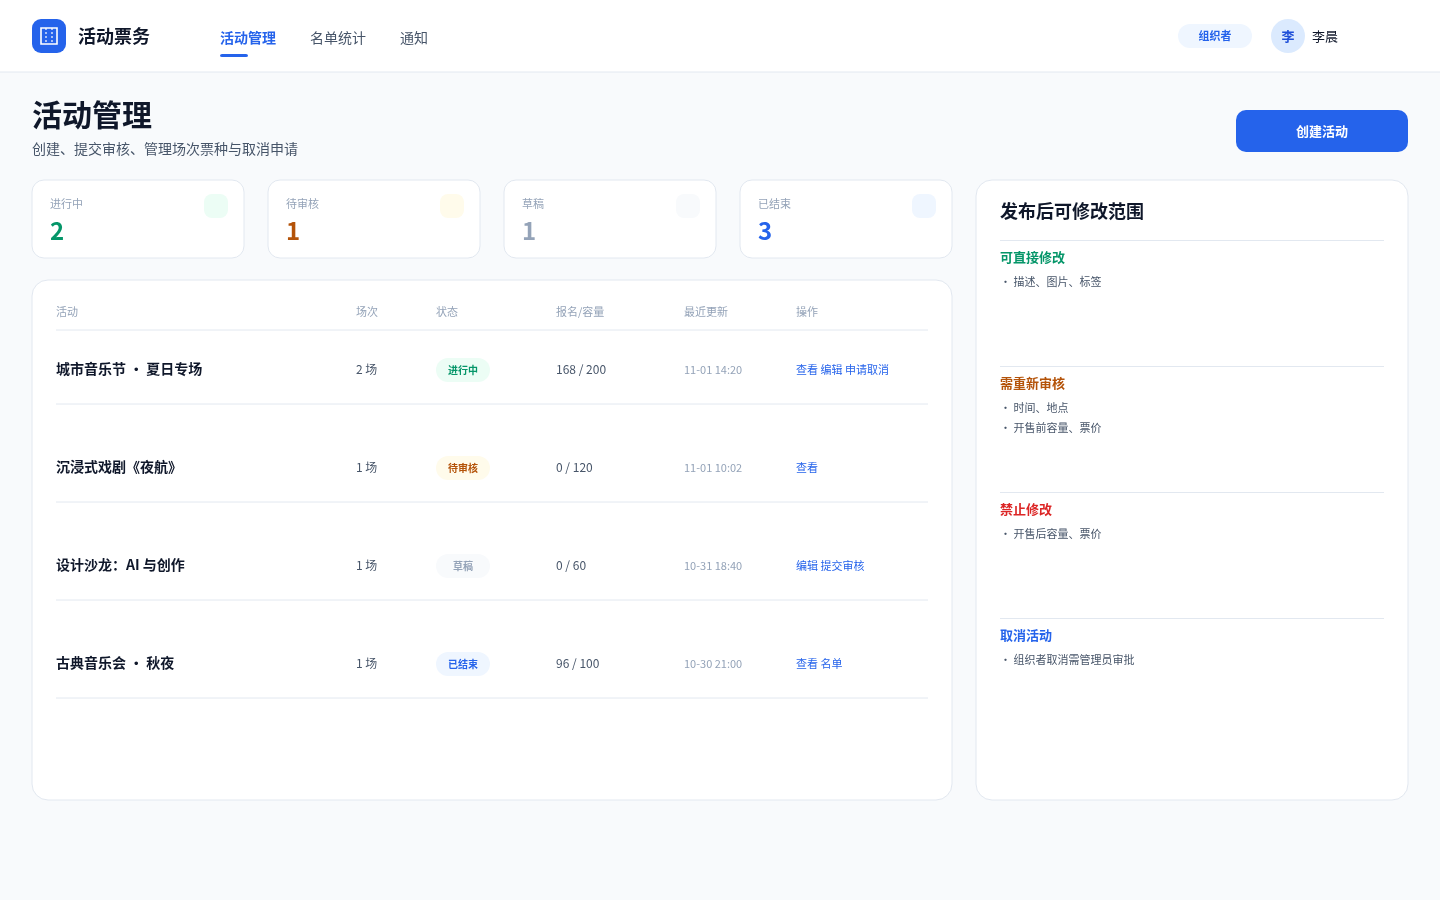
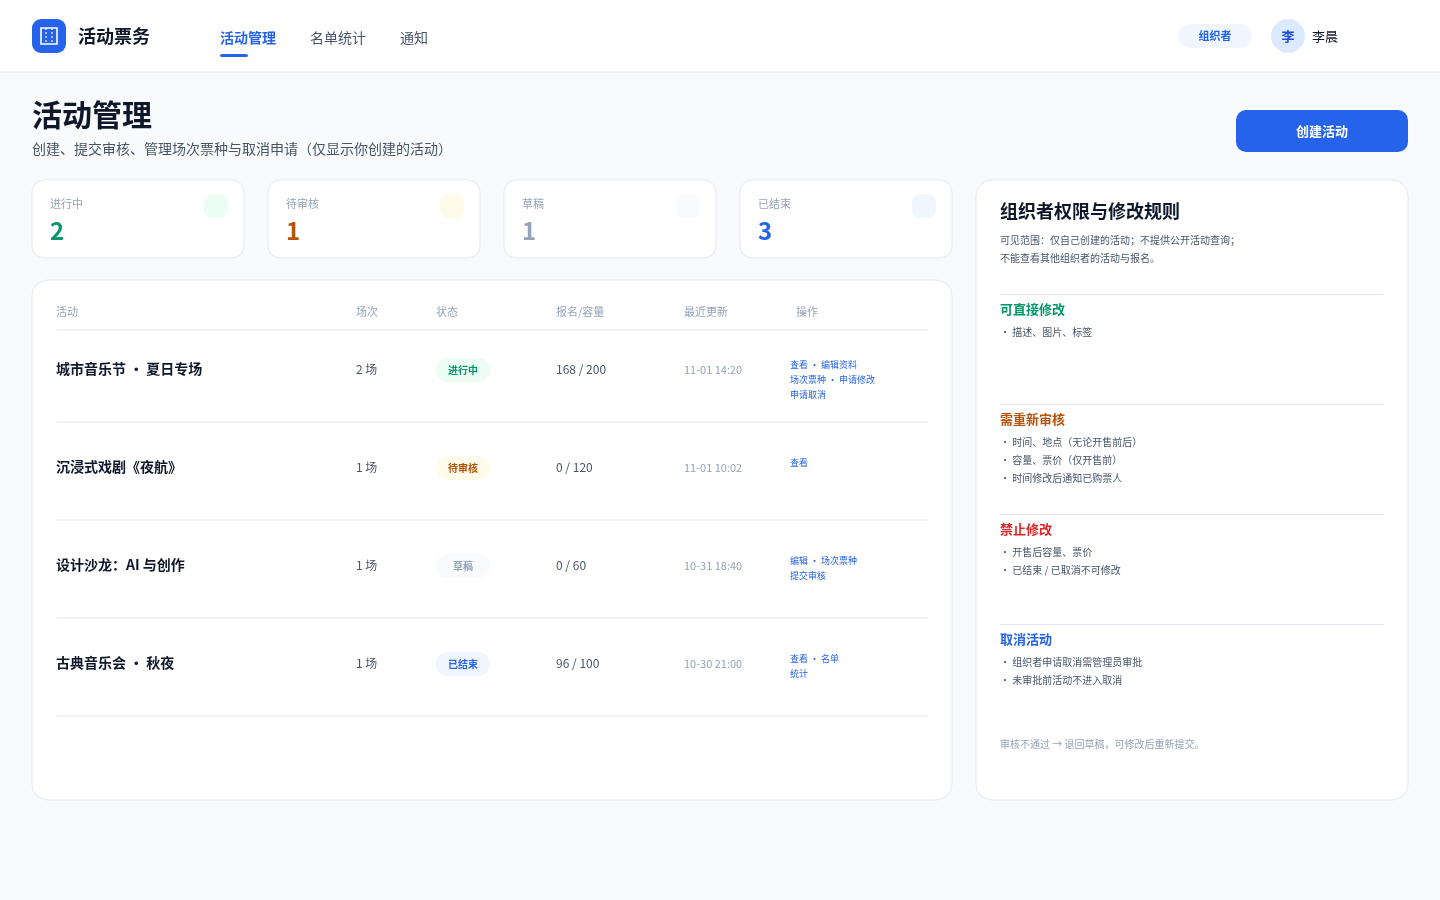
lab2: 按需求核对组织者活动权限
- 操作按状态拆分：编辑资料/场次票种/申请修改/申请取消
- 右侧补齐可见范围、修改范围、取消审批、审核退回
- 增加时间变更通知购票人、已结束/已取消不可改

diff --git a/lab2/UI/生成UI.py b/lab2/UI/生成UI.py
@@ -411,7 +411,7 @@ def screen_organizer_activities():
     defs = defs_gradient()
     b = [rect(0, 0, W, H, C["bg"]), top_nav("活动管理", "组织者", name="李晨", avatar="李", items=[("活动管理", 220), ("名单统计", 310), ("通知", 400)])]
     b.append(text(32, 126, "活动管理", 30, C["text"], 700))
-    b.append(text(32, 154, "创建、提交审核、管理场次票种与取消申请", 14, C["sub"]))
+    b.append(text(32, 154, "创建、提交审核、管理场次票种与取消申请（仅显示你创建的活动）", 14, C["sub"]))
     b.append(button(1236, 110, 172, 42, "创建活动", "primary", 13))
     stats = [("进行中", "2", C["success"], C["success_bg"]), ("待审核", "1", C["warning"], C["warning_bg"]), ("草稿", "1", C["muted"], C["bg"]), ("已结束", "3", C["primary"], C["blue_tint"])]
     for i, (label, value, fg, bg) in enumerate(stats):
@@ -430,10 +430,10 @@ def screen_organizer_activities():
     b.append(text(796, 316, "操作", 11, C["muted"], 500))
     b.append(line(56, 330, 928, 330))
     rows = [
-        ("城市音乐节 · 夏日专场", "2 场", "进行中", C["success"], C["success_bg"], "168 / 200", "11-01 14:20", "查看  编辑  申请取消"),
-        ("沉浸式戏剧《夜航》", "1 场", "待审核", C["warning"], C["warning_bg"], "0 / 120", "11-01 10:02", "查看"),
-        ("设计沙龙：AI 与创作", "1 场", "草稿", C["muted"], C["bg"], "0 / 60", "10-31 18:40", "编辑  提交审核"),
-        ("古典音乐会 · 秋夜", "1 场", "已结束", C["primary"], C["blue_tint"], "96 / 100", "10-30 21:00", "查看  名单"),
+        ("城市音乐节 · 夏日专场", "2 场", "进行中", C["success"], C["success_bg"], "168 / 200", "11-01 14:20", ["查看 · 编辑资料", "场次票种 · 申请修改", "申请取消"]),
+        ("沉浸式戏剧《夜航》", "1 场", "待审核", C["warning"], C["warning_bg"], "0 / 120", "11-01 10:02", ["查看"]),
+        ("设计沙龙：AI 与创作", "1 场", "草稿", C["muted"], C["bg"], "0 / 60", "10-31 18:40", ["编辑 · 场次票种", "提交审核"]),
+        ("古典音乐会 · 秋夜", "1 场", "已结束", C["primary"], C["blue_tint"], "96 / 100", "10-30 21:00", ["查看 · 名单", "统计"]),
     ]
     for i, (title, session, status, sfg, sbg, count, updated, actions) in enumerate(rows):
         y = 352 + i * 98
@@ -442,23 +442,27 @@ def screen_organizer_activities():
         b.append(badge(436, y + 6, status, sfg, sbg, 10))
         b.append(text(556, y + 22, count, 12, C["sub"]))
         b.append(text(684, y + 22, updated, 11, C["muted"]))
-        b.append(text(796, y + 22, actions, 11, C["primary"], 500))
-        b.append(line(56, y + 52, 928, y + 52, C["border"]))
+        for j, action in enumerate(actions):
+            b.append(text(790, y + 16 + j * 15, action, 9, C["primary"], 500))
+        b.append(line(56, y + 70, 928, y + 70, C["border"]))
     # 右栏修改规则
     b.append(rect(976, 180, 432, 620, C["surface"], 16, C["border"]))
-    b.append(text(1000, 218, "发布后可修改范围", 18, C["text"], 700))
+    b.append(text(1000, 218, "组织者权限与修改规则", 18, C["text"], 700))
+    b.append(text(1000, 244, "可见范围：仅自己创建的活动；不提供公开活动查询；", 10, C["sub"]))
+    b.append(text(1000, 262, "不能查看其他组织者的活动与报名。", 10, C["sub"]))
     rules = [
         ("可直接修改", ["描述、图片、标签"], C["success"]),
-        ("需重新审核", ["时间、地点", "开售前容量、票价"], C["warning"]),
-        ("禁止修改", ["开售后容量、票价"], C["danger"]),
-        ("取消活动", ["组织者取消需管理员审批"], C["primary"]),
+        ("需重新审核", ["时间、地点（无论开售前后）", "容量、票价（仅开售前）", "时间修改后通知已购票人"], C["warning"]),
+        ("禁止修改", ["开售后容量、票价", "已结束 / 已取消不可修改"], C["danger"]),
+        ("取消活动", ["组织者申请取消需管理员审批", "未审批前活动不进入取消"], C["primary"]),
     ]
     for i, (title, items, color) in enumerate(rules):
-        y = 258 + i * 126
-        b.append(rect(1000, y - 18, 384, 1, C["border"]))
+        y = 310 + i * 110
+        b.append(rect(1000, y - 16, 384, 1, C["border"]))
         b.append(text(1000, y + 4, title, 13, color, 700))
         for j, item in enumerate(items):
-            b.append(text(1000, y + 28 + j * 20, "· " + item, 11, C["sub"]))
+            b.append(text(1000, y + 26 + j * 18, "· " + item, 10, C["sub"]))
+    b.append(text(1000, 748, "审核不通过 → 退回草稿，可修改后重新提交。", 10, C["muted"]))
     return svg_doc("".join(b), defs)
 
 

diff --git a/lab2/UI/其余六屏说明.md b/lab2/UI/其余六屏说明.md
@@ -32,12 +32,25 @@
 - **内容**：
   - 顶部统计：进行中/待审核/草稿/已结束；
   - 活动表格：活动、场次、状态、报名/容量、最近更新、操作；
-  - 右侧“发布后可修改范围”：
-    - 描述/图片/标签可直接修改；
-    - 时间/地点、开售前容量/票价需重新审核；
-    - 开售后容量/票价禁止修改；
-    - 组织者取消需管理员审批。
-- **约束**：组织者只能看自己创建的活动；不能查看其他组织者的活动与报名。
+  - 操作按状态区分：
+    - 进行中：查看 · 编辑资料 · 场次票种 · 申请修改 · 申请取消；
+    - 待审核：查看（不能编辑）；
+    - 草稿：编辑 · 场次票种 · 提交审核；
+    - 已结束：查看 · 名单 · 统计；
+  - 右侧“组织者权限与修改规则”：
+    - 可见范围：仅自己创建的活动；不提供公开活动查询；不能查看其他组织者的活动与报名；
+    - 可直接修改：描述/图片/标签；
+    - 需重新审核：时间/地点（无论开售前后）、容量/票价（仅开售前）；时间修改后通知已购票人；
+    - 禁止修改：开售后容量/票价；已结束/已取消不可修改；
+    - 取消活动：组织者申请取消需管理员审批，未审批前不进入取消；
+    - 审核不通过退回草稿，可修改后重新提交。
+- **需求对照**：
+  - REQ-002/029：组织者只能查看自己创建的活动及其报名，不提供公开活动查询；
+  - REQ-006～REQ-008：创建活动、场次、票种，填写容量/价格；
+  - REQ-009：提交审核，驳回退回草稿，可修改后重新提交；
+  - REQ-010/REQ-028：描述/图片/标签直接改；时间/地点重新审核；容量/票价开售前可改且重新审核，开售后禁止；时间修改通知购票人；
+  - REQ-011：组织者取消需管理员审批，未审批前不进入取消；
+  - REQ-030/031：名单、统计、导出在 UI-06。
 - **Figma 调整**：创建活动可另做向导 Frame；操作列按钮可拆成下拉菜单。
 
 ## UI-06 组织者名单与统计

diff --git a/lab2/杂物/AI使用记录_完整过程.md b/lab2/杂物/AI使用记录_完整过程.md
@@ -625,3 +625,26 @@
   - 问题：筛选项宽度不同仍然存在，这是中文标签长度造成的；间隔已经统一。
 - **人工修改优化后的结果**：按用户意见完成间距和标题调整。
 - **对应 Git 提交**：`e5b3696`（间距与标题调整）。
+
+---
+
+## 使用记录 32：组织者活动管理权限对照
+
+- **时间**：2026-11-01
+- **使用场景**：用户要求把组织者活动管理页与实验一需求报告中组织者对活动的操作权限逐条比对。
+- **需求依据**：
+  - REQ-002/029：组织者只能查看自己创建的活动及其报名，不提供公开活动查询，不能看其他组织者数据；
+  - REQ-006～008：创建活动、场次、票种，填写容量/价格；
+  - REQ-009：提交审核，驳回退回草稿，可修改后重新提交；
+  - REQ-010/028：描述/图片/标签直接改；时间/地点重新审核；容量/票价开售前可改需审核、开售后禁止；时间修改通知购票人；
+  - REQ-011：组织者取消需管理员审批，未审批前不进入取消；
+  - REQ-030/031：名单、统计、导出在 UI-06。
+- **AI 的处理**：
+  - 操作列按状态拆分：进行中“查看·编辑资料/场次票种·申请修改/申请取消”；待审核“查看”；草稿“编辑·场次票种/提交审核”；已结束“查看·名单/统计”；
+  - 右侧标题改为“组织者权限与修改规则”，增加可见范围、时间修改通知、已结束/已取消不可改、审核不通过退回草稿；
+  - `其余六屏说明` 增加 REQ-002/006～011/028～031 对照。
+- **优点/问题**：
+  - 优点：组织者的可见范围、可编辑范围、取消审批和审核退回都能在页面上对应到需求；状态不同操作不同，避免“编辑”被误解为全字段编辑。
+  - 问题：创建活动向导未在 UI-05 展开，需另做 Frame；名单/统计在 UI-06。
+- **人工修改优化后的结果**：按需求对照完成 UI-05 调整。
+- **对应 Git 提交**：待提交（组织者权限核对）。

diff --git a/lab2/UI/UI设计规范.md b/lab2/UI/UI设计规范.md
@@ -55,7 +55,7 @@
 | UI-02 | 活动浏览与详情 | 参与者 | 活动/场次、票种/容量、查询 | 售票中、即将售罄、售罄可候补；关键词/时间/状态/场次/票种组合筛选；时间最新在前 |
 | UI-03 | 报名购票与候补 | 参与者 | 报名、退票/候补 | 有票直接报名、售罄加入候补、支付标记、截止提示 |
 | UI-04 | 我的票与退票 | 参与者 | 报名、退票、候补 | 筛选：全部/待检票/已检票/候补中/已结束/已取消/已退票；待检票=已购票；已结束=正常结束+未检票；已取消/已退票=自行取消+活动取消 |
-| UI-05 | 组织者活动管理 | 组织者 | 活动/场次、票种、审核 | 草稿/待审核/公开、可修改范围、提交审核 |
+| UI-05 | 组织者活动管理 | 组织者 | 活动/场次、票种、审核 | 仅自己活动；草稿/待审核/进行中/已结束；编辑资料/场次票种/申请修改/申请取消；修改范围与审批 |
 | UI-06 | 组织者名单与统计 | 组织者 | 查询统计 | 手机号遮挡、导出、报名/出席/退票率 |
 | UI-07 | 管理员审核与处置 | 管理员 | 管理员处置、活动 | 审核队列、举报、封禁、强制退票、创建检票账号 |
 | UI-08 | 检票员工作台 | 检票员 | 检票 | 负责活动、请求列表、通过/异常、检票时间窗 |

diff --git a/lab2/AI使用记录.md b/lab2/AI使用记录.md
@@ -122,7 +122,7 @@
 - **生成结果**：`04_我的票与退票`、`05_组织者活动管理`、`06_组织者名单与统计`、`07_管理员审核与处置`、`08_检票员工作台`、`09_审计日志与权限` 的 SVG 与 PNG 预览，以及 `其余六屏说明.md`。
 - **优点/问题**：六屏覆盖了参与者/组织者/管理员/检票员的主要任务，隐私和状态限制（手机号遮挡、检票员不看名单、统计结束后开放）都体现在界面上；但仍是静态骨架，图表、弹窗、空/加载/禁用状态和 Figma 组件化需要人工调整。
 - **人工修改**：第三屏后的登录/活动/候补修改已记录；我的票页按 R12 调整：增加候补中、已退票展示，保留“已购票”状态并补充“有效票（待检票）”，筛选合并“已取消/已退票”但卡片保留具体原因；删除退票说明中的“一单一张”。其余屏待 Figma 调整。
-- **Git**：`3d2c5d8`（其余六屏 UI）、`7d13740`（我的票状态调整）、`8880b99`（筛选分类调整）、`e5b3696`（间距与标题调整）。
+- **Git**：`3d2c5d8`（其余六屏 UI）、`7d13740`（我的票状态调整）、`8880b99`（筛选分类调整）、`e5b3696`（间距与标题调整）、本次组织者权限核对待提交。
 
 ---
 
